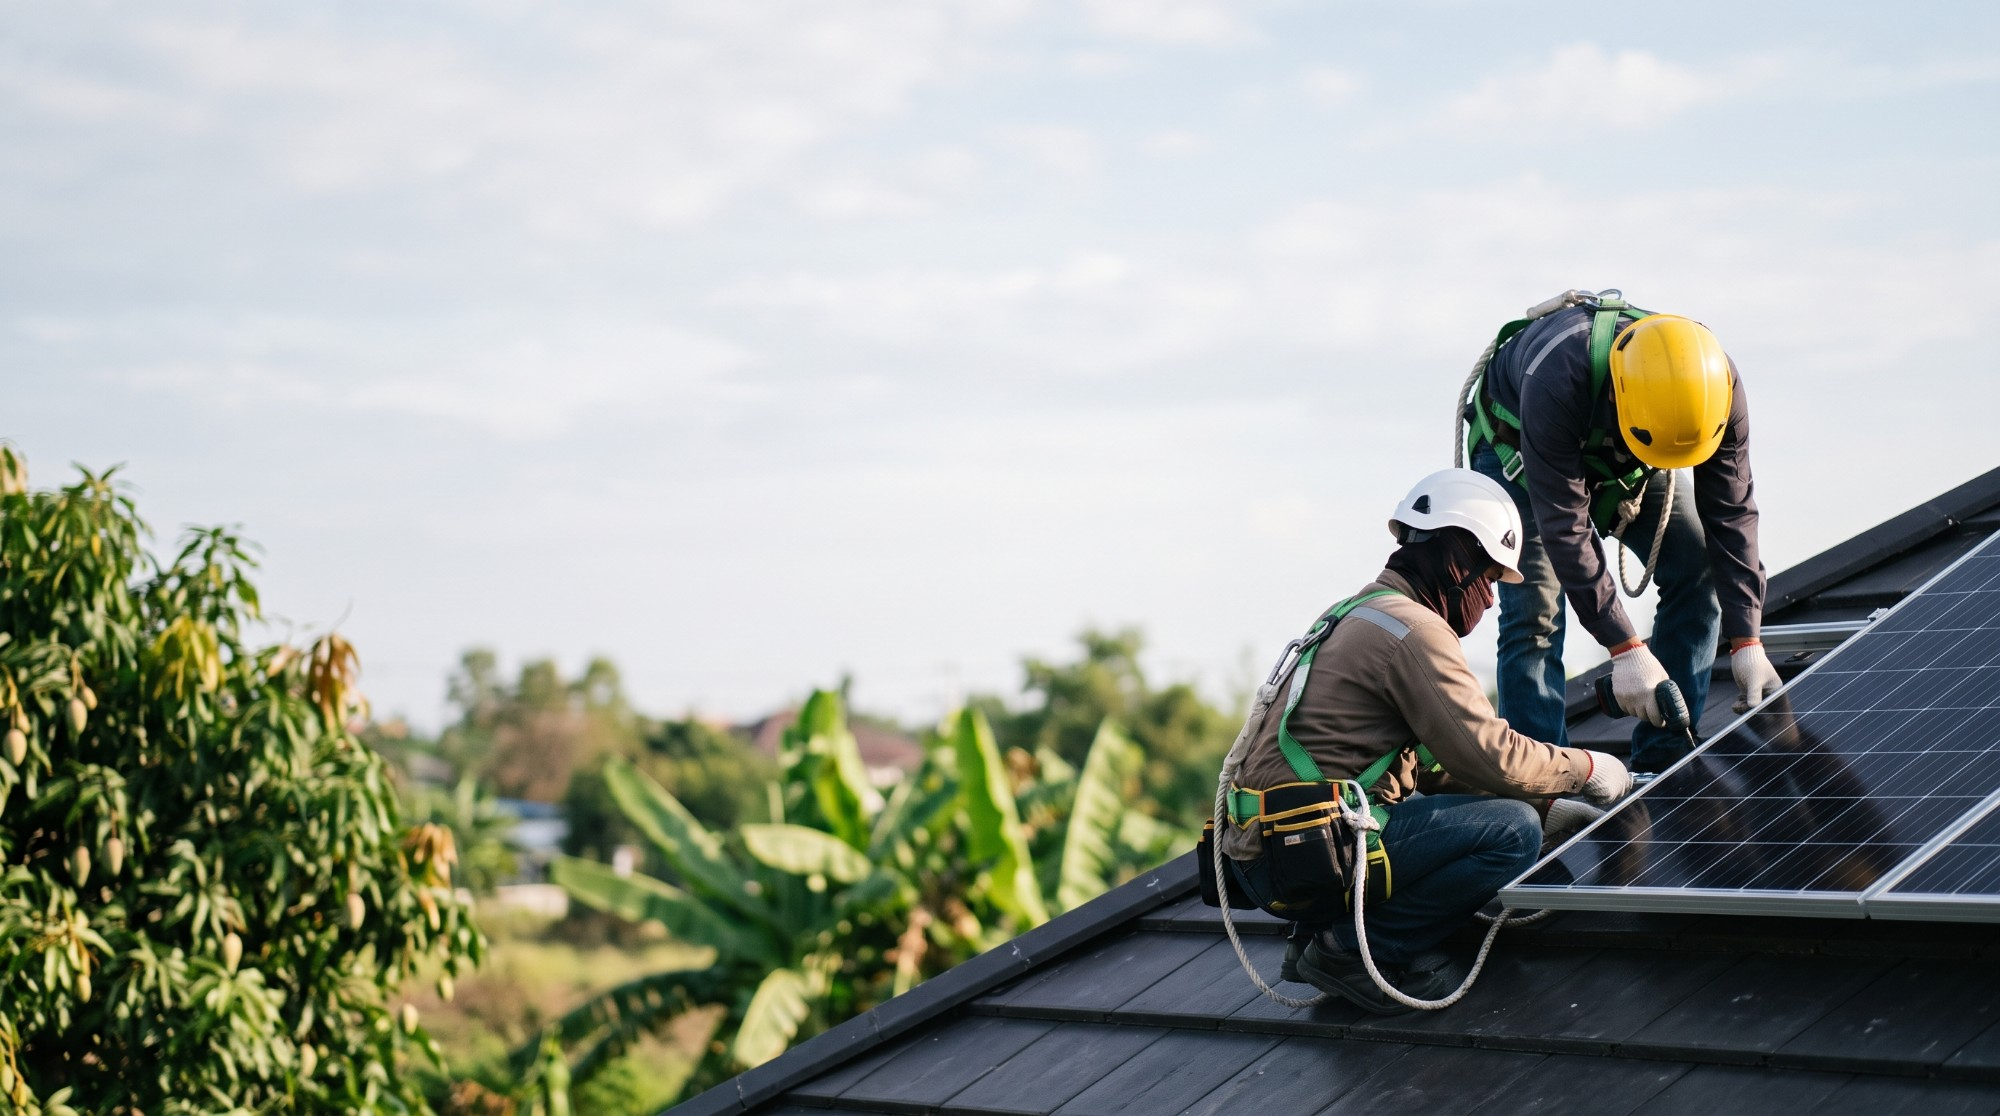
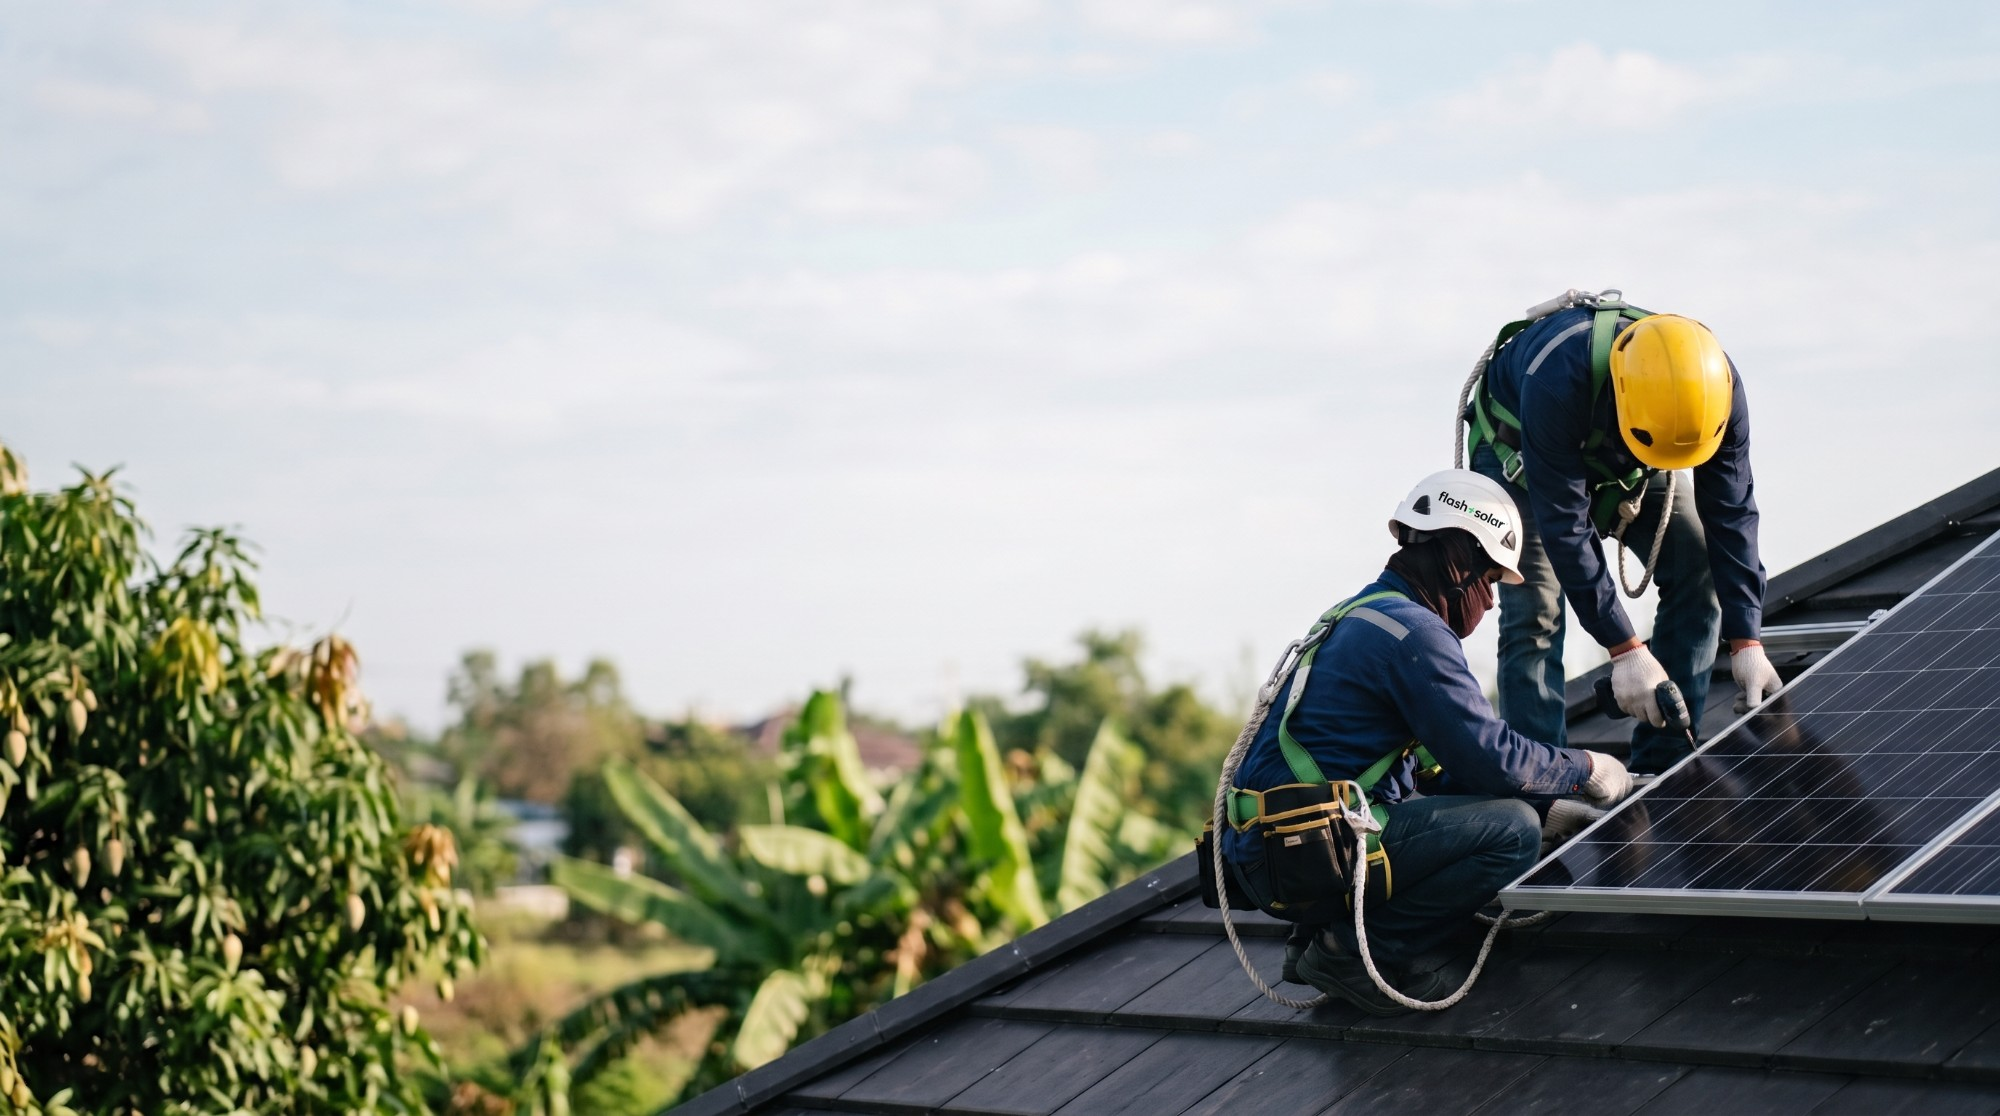
style: เปลี่ยนภาพพื้นหลังล็อกอินเป็นภาพช่างชุดน้ำเงิน หมวกโลโก้ flash+solar
ผู้ใช้ส่งภาพใหม่มาแทนภาพเดิม (มุมเดียวกัน แต่ช่างสวมชุดสีน้ำเงินและหมวกมีโลโก้
บริษัท) ทับไฟล์ชื่อเดิมแล้วใส่ ?v=2 ที่ URL ภาพ ไม่งั้นเบราว์เซอร์ที่เคยเปิด
จะยังแสดงภาพเก่าจากแคช

diff --git a/dashboard/auth.jsx b/dashboard/auth.jsx
@@ -824,8 +824,8 @@ function LgScene({ children }) {
    สุ่มครั้งเดียวต่อการโหลดหน้า — ล็อกอินแล้วไปหน้าตั้งค่าบัญชีจะได้ภาพเดิม
    ไฟล์อยู่ dashboard/assets (index.html กับ liff.html อยู่ราก จึงอ้าง path เดียวกันได้)
    ตอนนี้มีภาพเดียว: ช่างติดตั้งบนหลังคาอยู่ฝั่งขวา ฟ้าว่างฝั่งซ้าย — จอกว้างจึงวางการ์ดชิดซ้ายบนฟ้า (.lg-wrap)
-   เพิ่มภาพใหม่ควรเว้นฝั่งซ้าย/กลางให้ว่างแบบเดียวกัน */
-const LG_PHOTOS = ["dashboard/assets/login-crew.jpg"];
+   เพิ่มภาพใหม่ควรเว้นฝั่งซ้าย/กลางให้ว่างแบบเดียวกัน · เปลี่ยนไฟล์ทับชื่อเดิมให้บัมป์ ?v= ไม่งั้นเบราว์เซอร์ใช้ภาพเก่าจากแคช */
+const LG_PHOTOS = ["dashboard/assets/login-crew.jpg?v=2"];
 const LG_PHOTO = LG_PHOTOS[Math.floor(Math.random() * LG_PHOTOS.length)];
 
 function LgSky() {

diff --git a/liff.html b/liff.html
@@ -104,7 +104,7 @@ window.LN_LIFF_ID = "2011577974-yzS9mgQQ";
 <script src="dashboard/build/store.js?v=50"></script>
 <script src="dashboard/build/media.js?v=20"></script>
 <script src="dashboard/build/daily.js?v=19"></script>
-<script src="dashboard/build/auth.js?v=65"></script>
+<script src="dashboard/build/auth.js?v=66"></script>
 <!-- ตัวสร้างคิวอาร์ + นามบัตรอิเล็กทรอนิกส์ — หลัง auth.js เพราะอ่าน ROLE_INFO/userRoles/useUserAvatar จากที่นั่น
      น้ำหนักที่เพิ่มมาสองตัวนี้คุ้มกับการได้นามบัตรในไลน์ ซึ่งเป็นที่ที่ช่างอยู่ตอนส่งจริง -->
 <script src="https://cdn.jsdelivr.net/npm/qrcode-generator@1.4.4/qrcode.js"></script>

diff --git a/index.html b/index.html
@@ -1153,7 +1153,7 @@ H-@G1I margin-top D'IC*D%L-1'@- 6H
 <script src="dashboard/build/ec-paper.js?v=19"></script>
 <script src="dashboard/build/attend.js?v=13"></script>
 <script src="dashboard/build/leave.js?v=3"></script>
-<script src="dashboard/build/auth.js?v=65"></script>
+<script src="dashboard/build/auth.js?v=66"></script>
 <!-- นามบัตรอิเล็กทรอนิกส์ — หลัง auth.js เพราะอ่าน ROLE_INFO/userRoles จากที่นั่น -->
 <script src="dashboard/build/vcard.js?v=22"></script>
 <script src="dashboard/build/line.js?v=10"></script>

diff --git a/dashboard/build/auth.js b/dashboard/build/auth.js
@@ -1535,7 +1535,7 @@ function LgScene({
     className: "lg-wrap"
   }, children));
 }
-const LG_PHOTOS = ["dashboard/assets/login-crew.jpg"];
+const LG_PHOTOS = ["dashboard/assets/login-crew.jpg?v=2"];
 const LG_PHOTO = LG_PHOTOS[Math.floor(Math.random() * LG_PHOTOS.length)];
 function LgSky() {
   return React.createElement("div", {
